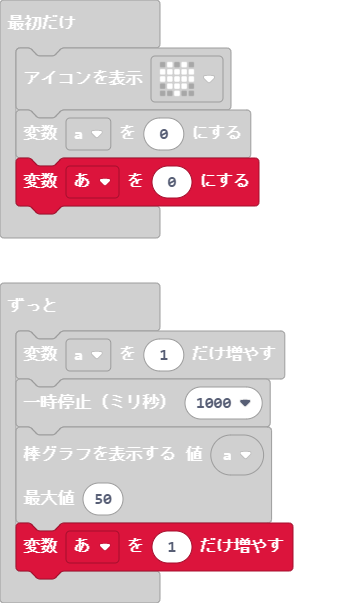
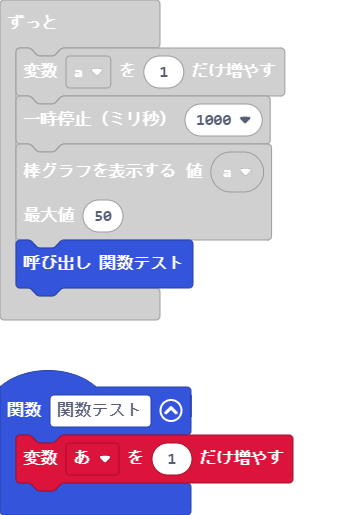
関数テストを追加

diff --git a/main.ts b/main.ts
@@ -1,3 +1,6 @@
+function 関数テスト () {
+    あ += 1
+}
 basic.showIcon(IconNames.Heart)
 let a = 0
 let あ = 0
@@ -8,5 +11,5 @@ basic.forever(function () {
     a,
     50
     )
-    あ += 1
+    関数テスト()
 })
